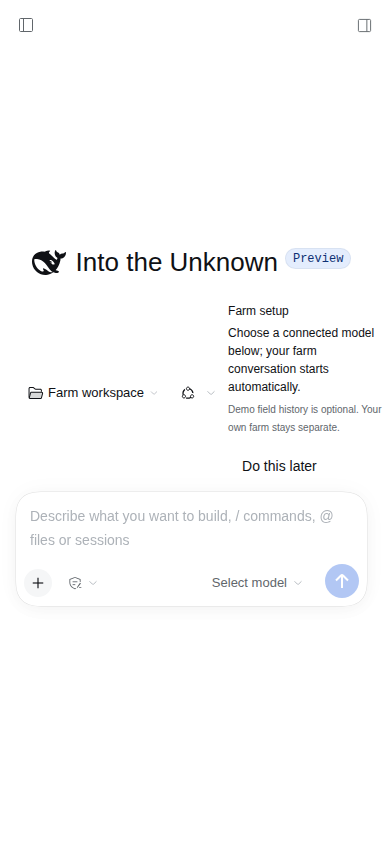
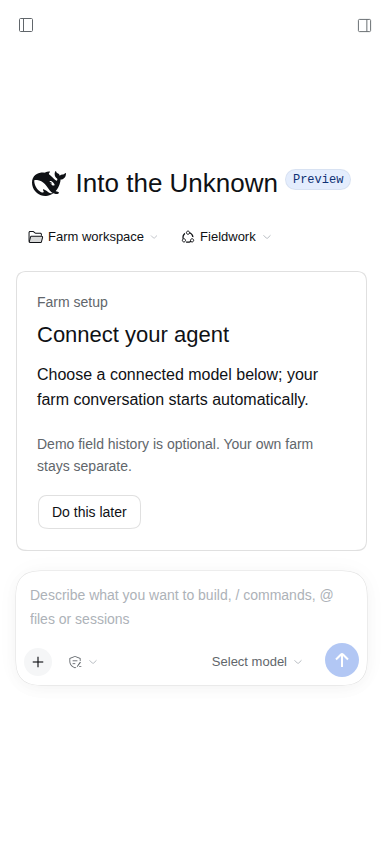
Make the onboarding welcome panel readable and align it with the composer

diff --git a/fieldwork/ui/src/client/locales.ts b/fieldwork/ui/src/client/locales.ts
@@ -1,6 +1,6 @@
 /** Copy owned by the native Fieldwork pages. */
 export const en = {
-  setupShort: 'Setup', setupOptions: 'Farm setup options', setupPickModel: 'Choose a connected model below; your farm conversation starts automatically.', setupDemoShort: 'Demo field history is optional. Your own farm stays separate.', setup: 'Farm setup', setupIntro: 'Welcome to Fieldwork. Connect your agent, then we will get to know your farm one question at a time.', setupAgent: 'First, choose a connected model in the picker below. Your farm conversation will start automatically. A hosted Fieldwork service may provide the model for you.', setupDemo: 'Field-history lookup currently uses invented demo data. We will ask before using the demo; your actual farm context stays separate.', setupComplete: 'You have finished setup for now. You can reopen this conversation whenever you want.', setupDeferred: 'Setup is paused. Continue whenever you are ready.', setupInProgress: 'Getting to know your farm', setupResume: 'Resume farm setup', setupStart: 'Start farm setup', setupLater: 'Do this later', setupFinish: 'Finish setup for now', brandLine: 'Fieldwork · Your farm. Your findings.', farm: 'My farm', community: 'Community', experiments: 'Experiments', refresh: 'Refresh', loading: 'Loading farm records…', retry: 'Try again', local: 'On this computer', demo: 'Fictional demo farm', baseline: 'Current approach', reason: 'Why this works for us', name: 'Farm name', region: 'Broad region', area: 'Area (ha)', crop: 'Current main crop', saveFarm: 'Review farm context', farmIntro: 'Start with the practice and experience you already trust. Keep its reasons beside the record.', private: 'Private workspace', review: 'Review this change', confirm: 'Confirm and save', cancel: 'Cancel', close: 'Close', saved: 'Saved on this computer.', communityIntro: 'Learn from methods and farm knowledge. Keep their context, uncertainty, and source.', localFeed: 'Local demonstration feed · no online publication', sample: 'Fictional example', yourSummary: 'Your selected summary', method: 'Method and limits', change: 'Proposed change', source: 'Method source', adapt: 'Make a private draft', noPrescription: 'A starting point, not a prescription. Review suitability for your field and conditions.', withdraw: 'Remove shared summary', experimentsIntro: 'Keep the baseline, test one change, and record what happened. An inconclusive result is still useful.', newTrial: 'Plan a small trial', trialTitle: 'Question or trial title', trialArea: 'Trial area (ha)', draft: 'Private draft', tracking: 'Tracking observations', edit: 'Adapt draft', track: 'Start observation tracking', trackScope: 'Tracking records observations. It does not approve a treatment or schedule physical farm work.', observe: 'Record observation', observation: 'Measurement, condition, or deviation', noObservations: 'No observations yet.', share: 'Preview a summary', takeaway: 'What did you learn? Include uncertainty.', shareScope: 'No raw observations or farm record will be attached. Method text can contain farm details; review all selected text.', preview: 'Preview selected content', publish: 'Confirm sharing to local feed', previewTitle: 'Selected sharing preview', empty: 'No private experiments yet. Adapt a community method or plan a small trial.', seed: 'Seed cost comparison', seedIntro: 'A purchase-cost calculation at the same planting rate. It does not compare seed quality, yield, or profit.', bags: 'Planting rate (bags/ha)', currentQuote: 'Current quote (CAD/bag)', alternativeQuote: 'Alternative quote (CAD/bag)', compare: 'Compare quotes', saveComparison: 'Review and save comparison', currentCost: 'Current purchase cost', alternativeCost: 'Alternative purchase cost', difference: 'Purchase-cost saving (CAD)', savedComparisons: 'Saved comparisons', none: 'No saved comparisons.', planScope: 'Allocate a small trial area while retaining the rest of your current approach. Review agronomy locally.', retained: 'Area retaining your current approach', missing: 'Could not load the workspace.',
+  setupConnect: 'Connect your agent', setupShort: 'Setup', setupOptions: 'Farm setup options', setupPickModel: 'Choose a connected model below; your farm conversation starts automatically.', setupDemoShort: 'Demo field history is optional. Your own farm stays separate.', setup: 'Farm setup', setupIntro: 'Welcome to Fieldwork. Connect your agent, then we will get to know your farm one question at a time.', setupAgent: 'First, choose a connected model in the picker below. Your farm conversation will start automatically. A hosted Fieldwork service may provide the model for you.', setupDemo: 'Field-history lookup currently uses invented demo data. We will ask before using the demo; your actual farm context stays separate.', setupComplete: 'You have finished setup for now. You can reopen this conversation whenever you want.', setupDeferred: 'Setup is paused. Continue whenever you are ready.', setupInProgress: 'Getting to know your farm', setupResume: 'Resume farm setup', setupStart: 'Start farm setup', setupLater: 'Do this later', setupFinish: 'Finish setup for now', brandLine: 'Fieldwork · Your farm. Your findings.', farm: 'My farm', community: 'Community', experiments: 'Experiments', refresh: 'Refresh', loading: 'Loading farm records…', retry: 'Try again', local: 'On this computer', demo: 'Fictional demo farm', baseline: 'Current approach', reason: 'Why this works for us', name: 'Farm name', region: 'Broad region', area: 'Area (ha)', crop: 'Current main crop', saveFarm: 'Review farm context', farmIntro: 'Start with the practice and experience you already trust. Keep its reasons beside the record.', private: 'Private workspace', review: 'Review this change', confirm: 'Confirm and save', cancel: 'Cancel', close: 'Close', saved: 'Saved on this computer.', communityIntro: 'Learn from methods and farm knowledge. Keep their context, uncertainty, and source.', localFeed: 'Local demonstration feed · no online publication', sample: 'Fictional example', yourSummary: 'Your selected summary', method: 'Method and limits', change: 'Proposed change', source: 'Method source', adapt: 'Make a private draft', noPrescription: 'A starting point, not a prescription. Review suitability for your field and conditions.', withdraw: 'Remove shared summary', experimentsIntro: 'Keep the baseline, test one change, and record what happened. An inconclusive result is still useful.', newTrial: 'Plan a small trial', trialTitle: 'Question or trial title', trialArea: 'Trial area (ha)', draft: 'Private draft', tracking: 'Tracking observations', edit: 'Adapt draft', track: 'Start observation tracking', trackScope: 'Tracking records observations. It does not approve a treatment or schedule physical farm work.', observe: 'Record observation', observation: 'Measurement, condition, or deviation', noObservations: 'No observations yet.', share: 'Preview a summary', takeaway: 'What did you learn? Include uncertainty.', shareScope: 'No raw observations or farm record will be attached. Method text can contain farm details; review all selected text.', preview: 'Preview selected content', publish: 'Confirm sharing to local feed', previewTitle: 'Selected sharing preview', empty: 'No private experiments yet. Adapt a community method or plan a small trial.', seed: 'Seed cost comparison', seedIntro: 'A purchase-cost calculation at the same planting rate. It does not compare seed quality, yield, or profit.', bags: 'Planting rate (bags/ha)', currentQuote: 'Current quote (CAD/bag)', alternativeQuote: 'Alternative quote (CAD/bag)', compare: 'Compare quotes', saveComparison: 'Review and save comparison', currentCost: 'Current purchase cost', alternativeCost: 'Alternative purchase cost', difference: 'Purchase-cost saving (CAD)', savedComparisons: 'Saved comparisons', none: 'No saved comparisons.', planScope: 'Allocate a small trial area while retaining the rest of your current approach. Review agronomy locally.', retained: 'Area retaining your current approach', missing: 'Could not load the workspace.',
 } as const
 export type FieldworkKey = keyof typeof en
-export const zh = { ...en, setupShort: '设置', setupOptions: '农场设置选项', setupPickModel: '在下方选择已连接的模型，农场对话将自动开始。', setupDemoShort: '演示田地历史可选；真实农场背景单独保存。', setup: '农场设置', setupIntro: '欢迎使用 Fieldwork。连接智能体后，我们将逐个问题了解你的农场。', setupAgent: '先在下方选择已连接的模型，农场对话将自动开始。托管的 Fieldwork 服务可为你提供模型。', setupDemo: '田地历史查询目前使用虚构演示数据。使用演示前会先询问，真实农场背景单独保存。', setupComplete: '你已暂时完成设置，可随时重新打开对话。', setupDeferred: '设置已暂停，准备好后可继续。', setupInProgress: '正在了解你的农场', setupResume: '继续农场设置', setupStart: '开始农场设置', setupLater: '以后再说', setupFinish: '暂时完成设置', brandLine: 'Fieldwork · 你的农场，你的发现。', farm: '我的农场', community: '社区', experiments: '试验', refresh: '刷新', baseline: '当前做法', reason: '为什么这样做', confirm: '确认并保存', cancel: '取消', close: '关闭' }
+export const zh = { ...en, setupConnect: '连接你的智能体', setupShort: '设置', setupOptions: '农场设置选项', setupPickModel: '在下方选择已连接的模型，农场对话将自动开始。', setupDemoShort: '演示田地历史可选；真实农场背景单独保存。', setup: '农场设置', setupIntro: '欢迎使用 Fieldwork。连接智能体后，我们将逐个问题了解你的农场。', setupAgent: '先在下方选择已连接的模型，农场对话将自动开始。托管的 Fieldwork 服务可为你提供模型。', setupDemo: '田地历史查询目前使用虚构演示数据。使用演示前会先询问，真实农场背景单独保存。', setupComplete: '你已暂时完成设置，可随时重新打开对话。', setupDeferred: '设置已暂停，准备好后可继续。', setupInProgress: '正在了解你的农场', setupResume: '继续农场设置', setupStart: '开始农场设置', setupLater: '以后再说', setupFinish: '暂时完成设置', brandLine: 'Fieldwork · 你的农场，你的发现。', farm: '我的农场', community: '社区', experiments: '试验', refresh: '刷新', baseline: '当前做法', reason: '为什么这样做', confirm: '确认并保存', cancel: '取消', close: '关闭' }

diff --git a/fieldwork/ui/src/client/onboarding.tsx b/fieldwork/ui/src/client/onboarding.tsx
@@ -1,16 +1,25 @@
-/** First-run guidance sits beside the native model picker and conversation. */
+/** First-run guidance occupies the native full-width area above the composer. */
 import type { PropsLocale, InjectFace } from '@deepseek-ai/dsh-client-ui-slots'
 import { useState } from 'react'
 import { Button, Modal } from '@deepseek-ai/dsh-client-ui-primitives'
 import type { SetupFace } from './onboarding-controller.ts'
 import css from './page.module.css'
 type Props = PropsLocale<'fieldwork'> & InjectFace<SetupFace>
-/** One compact setup card works on the blank hero, active composer, and setup page. */
+/** A readable welcome panel sits above model selection; the setup page remains independently accessible. */
 export function SetupCard({ t, useSetup, id, hero, open, begin, leave }: Props) {
   const s = useSetup(x => x)
   const p = s.progress
   if (id && (id !== p?.sessionId || p.phase === 'deferred' || p.phase === 'complete')) return null
-  if (hero) return <section className={css.setupHero} aria-label={t('setup')}><div><strong>{t('setup')}</strong><p>{t('setupPickModel')}</p><small>{t('setupDemoShort')}</small>{s.error && <p role="alert">{s.error}</p>}</div><Button disabled={s.busy} onClick={() => void leave('defer')}>{t('setupLater')}</Button></section>
+  if (hero) {
+    if (p?.phase !== 'agent-setup') return null
+    return <section className={css.setupWelcome} aria-label={t('setup')}>
+      <p className={css.setupEyebrow}>{t('setup')}</p>
+      <h2>{t('setupConnect')}</h2>
+      <p className={css.setupWelcomeBody}>{t('setupPickModel')}</p>
+      {s.error && <p role="alert">{s.error}</p>}
+      <div className={css.setupWelcomeFooter}><p>{t('setupDemoShort')}</p><Button variant="outline" disabled={s.busy} onClick={() => void leave('defer')}>{t('setupLater')}</Button></div>
+    </section>
+  }
   return <section className={css.setupCard} aria-label={t('setup')}>
     <><p className={css.brandLine}>{t('brandLine')}</p><h2>{t('setup')}</h2><p>{t(p?.phase === 'agent-setup' ? 'setupAgent' : p?.phase === 'complete' ? 'setupComplete' : p?.phase === 'deferred' ? 'setupDeferred' : 'setupIntro')}</p><p className={css.notice}>{t('setupDemo')}</p></>
     {s.error && <p role="alert">{s.error}</p>}

diff --git a/fieldwork/ui/src/client/page.module.css b/fieldwork/ui/src/client/page.module.css
@@ -32,10 +32,11 @@
 .setupCard h2 { margin: 0 0 12px; font-size: 22px; font-weight: 500; }
 @media (max-width: 767px) { .setupCard { margin: 8px auto; padding: 16px; } }
 
-.setupHero { display: flex; align-items: center; gap: 12px; width: clamp(160px, 38vw, 440px); max-width: 440px; text-align: left; color: var(--dsw-alias-label-primary); font-size: 12px; line-height: 1.5; }
-.setupHero > div { flex: 1 1 240px; min-width: 0; }
-.setupHero > button { flex-shrink: 0; white-space: nowrap; }
-.setupHero strong { font-weight: 500; }
-.setupHero p { margin: 4px 0; }
-.setupHero small { color: var(--dsw-alias-label-secondary); }
-@media (max-width: 767px) { .setupHero { width: 160px; max-width: 160px; flex-wrap: wrap; } }
+.setupWelcome { box-sizing: border-box; width: calc(100% - var(--dsh-composer-side-clearance) - var(--dsh-composer-side-clearance)); max-width: var(--dsh-composer-card-max-width); flex: none; padding: 24px; margin: 12px auto; border: 1px solid var(--dsw-alias-border-l3); border-radius: 12px; background: var(--dsw-alias-bg-layer-1); color: var(--dsw-alias-label-primary); text-align: left; }
+.setupWelcome h2 { margin: 8px 0 12px; font-size: 24px; line-height: 1.3; font-weight: 500; }
+.setupWelcomeBody { margin: 0; font-size: 16px; line-height: 1.6; }
+.setupEyebrow { margin: 0; color: var(--dsw-alias-label-secondary); font-size: 14px; line-height: 1.5; font-weight: 500; }
+.setupWelcomeFooter { display: flex; align-items: center; justify-content: space-between; flex-wrap: wrap; gap: 16px; margin-top: 20px; }
+.setupWelcomeFooter p { flex: 1 1 260px; margin: 0; color: var(--dsw-alias-label-secondary); font-size: 14px; line-height: 1.6; }
+.setupWelcomeFooter button { flex: none; white-space: nowrap; }
+@media (max-width: 767px) { .setupWelcome { padding: 20px; } .setupWelcome h2 { font-size: 22px; } }

diff --git a/fieldwork/ui/src/client/index.ts b/fieldwork/ui/src/client/index.ts
@@ -49,7 +49,7 @@ export function apply(ctx: Context): void {
   const setupFace = (id?: string, hero?: boolean): SetupFace => ({ hooks: { setup: onboarding.store }, id, hero, open: () => onboarding.open(), begin: () => onboarding.begin(), leave: action => onboarding.leave(action) })
   ctx.slots.inject('main', () => ctx.slots.register({ name: 'main', key: setupId, locale: 'fieldwork', inject: () => setupFace() }, SetupCard))
   ctx.slots.inject('sidebar.panellist', () => ctx.slots.register({ name: 'sidebar.panellist', id: setupId, order: -31, locale: 'fieldwork', label: () => t('setup') }, FarmIcon))
-  ctx.slots.inject('conversation.hero.options', () => ctx.slots.register({ name: 'conversation.hero.options', id: 'fieldwork-onboarding', locale: 'fieldwork', inject: id => setupFace(id, true) }, SetupCard))
+  ctx.slots.inject('conversation.input.dock', () => ctx.slots.register({ name: 'conversation.input.dock', id: 'fieldwork-onboarding', locale: 'fieldwork', inject: id => setupFace(id, true) }, SetupCard))
   ctx.slots.inject('conversation.session.header.utilities', () => ctx.slots.register({ name: 'conversation.session.header.utilities', id: 'fieldwork-onboarding', locale: 'fieldwork', inject: id => setupFace(id) }, SetupMenu))
   void onboarding.boot()
   const sections = [{ section: 'farm', icon: FarmIcon }, { section: 'community', icon: CommunityIcon }, { section: 'experiments', icon: ExperimentIcon }] as const

diff --git a/fieldwork/screenshots/built-in-onboarding/README.md b/fieldwork/screenshots/built-in-onboarding/README.md
@@ -10,6 +10,12 @@ The saved setup conversation waits for a connected model.
 
 ![Connect the agent](agent-setup.png)
 
+## Dark model setup
+
+The welcome panel keeps the same spacing and readable text in dark mode.
+
+![Dark model setup](dark-setup.png)
+
 ## First farm question
 
 After model selection, Codex loads the onboarding skill and asks how to begin.

diff --git a/fieldwork/screenshots/built-in-onboarding/README.zh.md b/fieldwork/screenshots/built-in-onboarding/README.zh.md
@@ -10,6 +10,12 @@
 
 ![连接智能体](agent-setup.png)
 
+## 深色模型设置
+
+深色模式中的欢迎面板保持相同间距及易读文字。
+
+![深色模型设置](dark-setup.png)
+
 ## 首个农场问题
 
 选择模型后，Codex 加载入门技能并询问如何开始。
